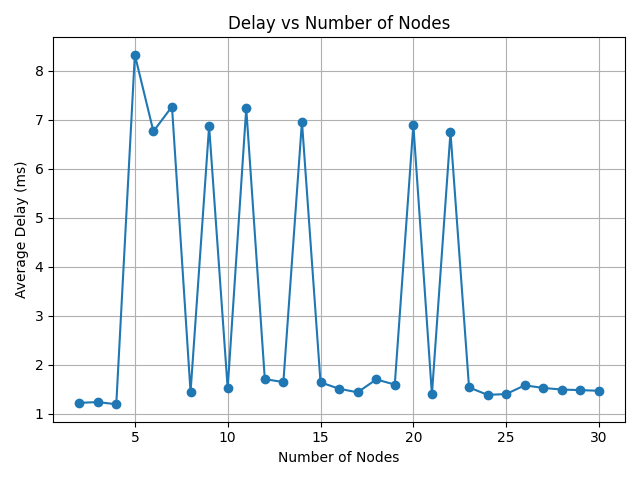
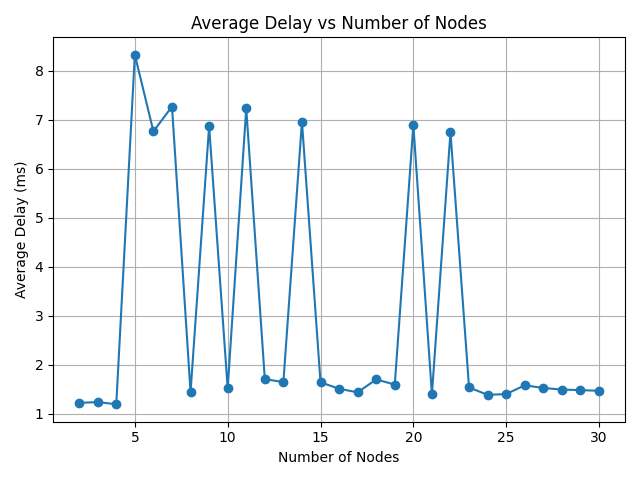
fix name

Changed region(s): [[0.2812, 0.0312, 0.7812, 0.0625]]

diff --git a/Resultsample_analysis/graph.py b/Resultsample_analysis/graph.py
@@ -25,7 +25,7 @@ plt.figure()
 plt.plot(nodes, delay, marker='o')
 plt.xlabel("Number of Nodes")
 plt.ylabel("Average Delay (ms)")
-plt.title("Delay vs Number of Nodes")
+plt.title("Average Delay vs Number of Nodes")
 plt.grid(True)
 plt.tight_layout()
 plt.savefig("delay_vs_nodes.png")
